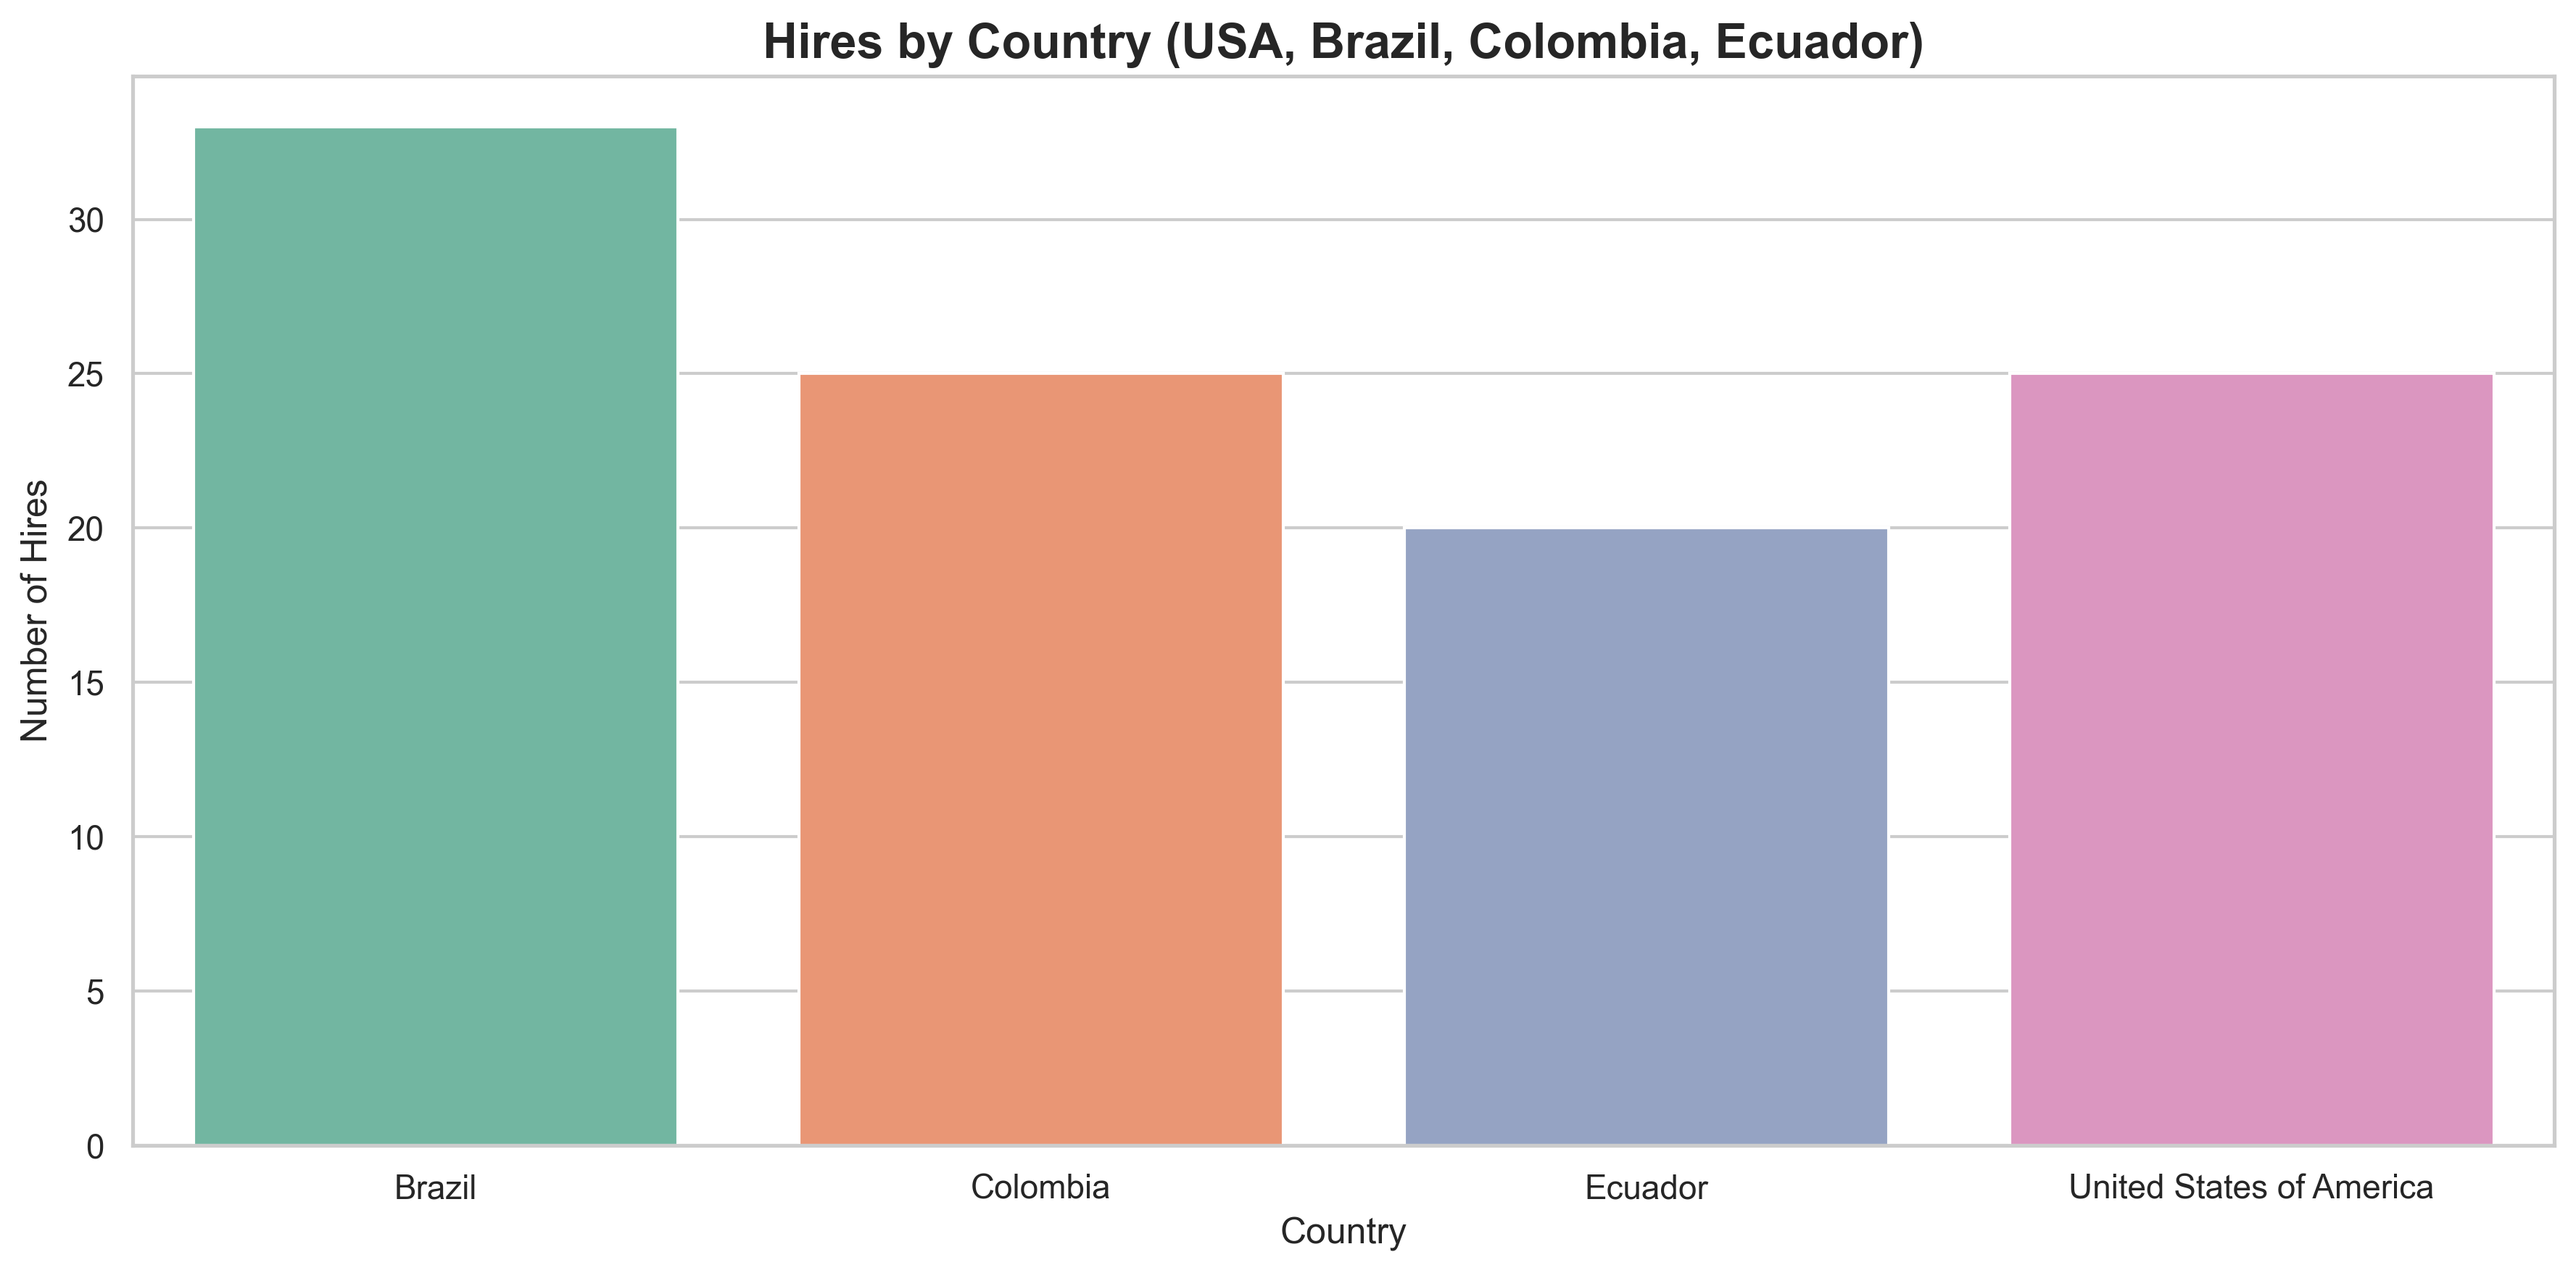
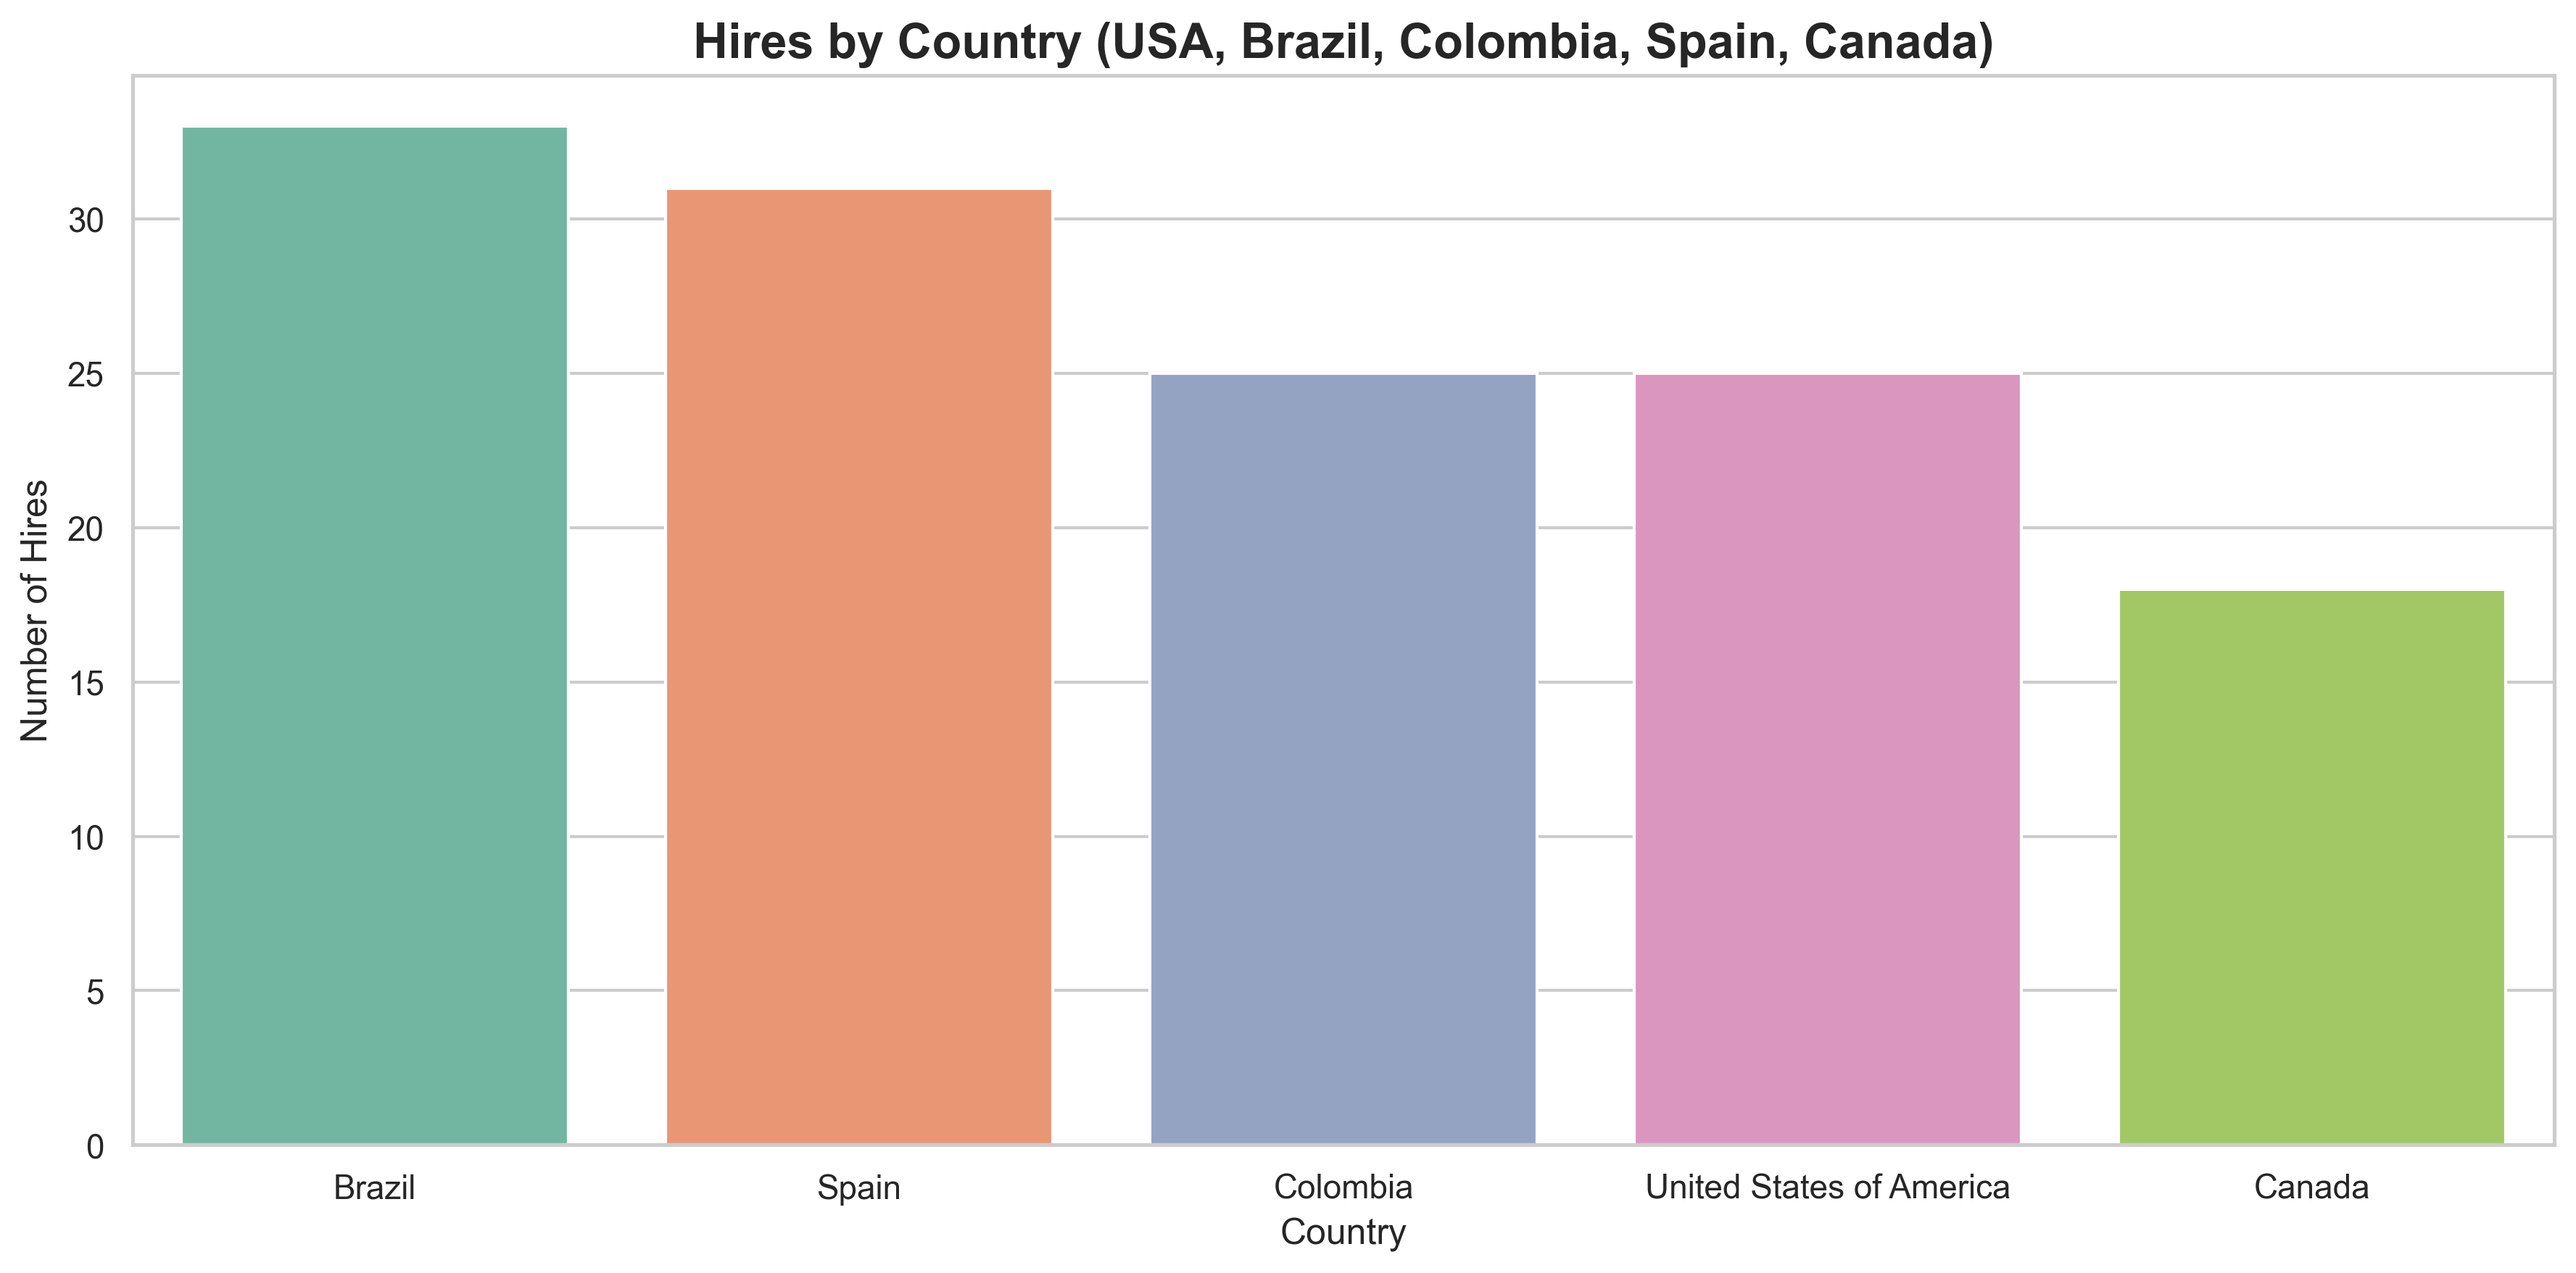
visualizations commit

diff --git a/visualizations.py b/visualizations.py
@@ -89,14 +89,14 @@ save_and_show("hires_by_seniority.png")
 query_country = """
 SELECT Country, COUNT(*) AS Hires
 FROM FactCandidates
-WHERE Hired = 1 AND Country IN ('United States of America', 'Brazil', 'Colombia', 'Ecuador')
+WHERE Hired = 1 AND Country IN ('United States of America', 'Brazil', 'Colombia', 'Spain','Canada')
 GROUP BY Country;
 """
 kpi_data_country = pd.read_sql(query_country, engine)
 
 plt.figure(figsize=(12,6))
-sns.barplot(x='Country', y='Hires', data=kpi_data_country, palette='Set2')
-plt.title('Hires by Country (USA, Brazil, Colombia, Ecuador)', fontsize=16, weight='bold')
+sns.barplot(x='Country', y='Hires', data=kpi_data_country, palette='Set2', order=kpi_data_country.sort_values('Hires', ascending=False).Country)
+plt.title('Hires by Country (USA, Brazil, Colombia, Spain, Canada)', fontsize=16, weight='bold')
 plt.xlabel('Country', fontsize=12)
 plt.ylabel('Number of Hires', fontsize=12)
 save_and_show("hires_by_country.png")
